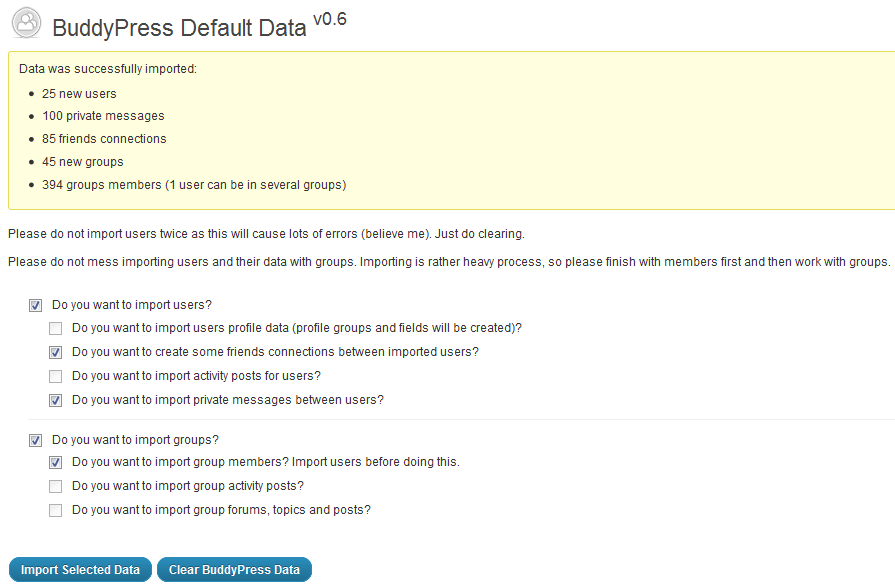
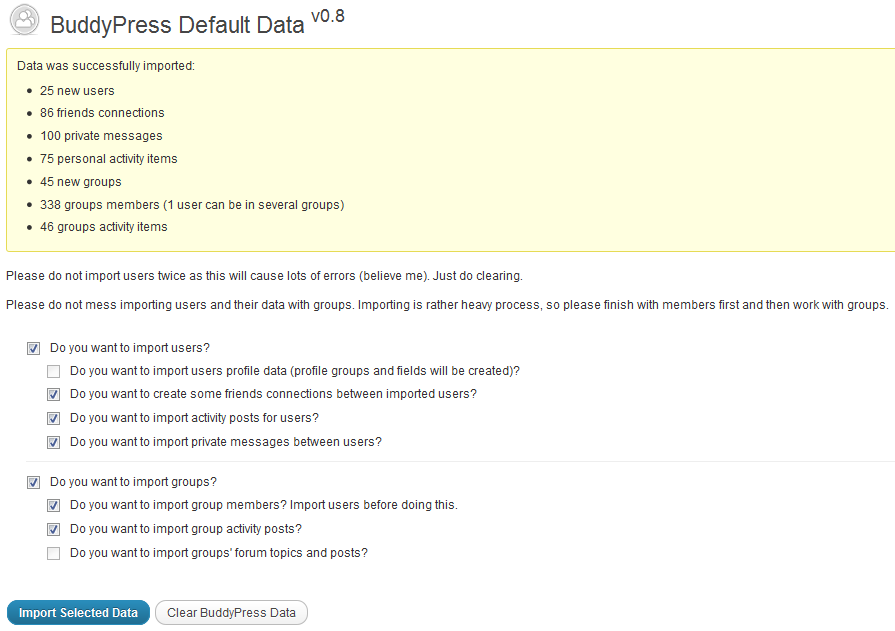
tagging 0.8
git-svn-id: https://plugins.svn.wordpress.org/bp-default-data/trunk@446362 b8457f37-d9ea-0310-8a92-e5e31aec5664

Changed region(s): [[0.0, 0.0, 1.0, 0.7077], [0.0302, 0.7385, 0.5128, 0.8923], [0.0, 0.9231, 0.362, 1.0]]

diff --git a/bp-default-data.php b/bp-default-data.php
@@ -4,14 +4,14 @@
  * Plugin URI:  http://ovirium.com
  * Description: Plugin will create lots of users, groups, topics, activity items - useful for testing purpose.
  * Author:      slaFFik
- * Version:     0.6
+ * Version:     0.8
  * Author URI:  http://cosydale.com
  */
 
 // Exit if accessed directly
 if ( !defined( 'ABSPATH' ) ) exit;
 
-define('BPDD_VERSION', '0.6');
+define('BPDD_VERSION', '0.8');
 
 add_action('bp_init', 'bpdd_init');
 function bpdd_init(){
@@ -60,39 +60,39 @@ function bpdd_admin_page_content(){
             // Import users
             if(isset($_POST['bpdd']['import-users'])){
                 $users = bpdd_import_users();
-                $imported['users'] = count($users) . ' new users';
+                $imported['users'] = sprintf(__('%d new users','bpdd'), count($users));
+                if(isset($_POST['bpdd']['import-friends'])){
+                    $friends = bpdd_import_users_friends();
+                    $imported['friends'] = sprintf(__('%d friends connections','bpdd'), $friends);
+                }
                 if(isset($_POST['bpdd']['import-profile'])){
                     $profile = bpdd_import_users_profile();
-                    $imported['profile'] = count($profile) .' profile entries';
+                    $imported['profile'] = sprintf(__('%d profile entries','bpdd'), $profile);
                 }
                 if(isset($_POST['bpdd']['import-messages'])){
                     $messages = bpdd_import_users_messages();
-                    $imported['messages'] = count($messages) .' private messages';
+                    $imported['messages'] = sprintf(__('%d private messages', 'bpdd'), count($messages));
                 }
                 if(isset($_POST['bpdd']['import-activity'])){
                     $activity = bpdd_import_users_activity();
-                    $imported['activity'] = count($activity) .' activity items';
-                }
-                if(isset($_POST['bpdd']['import-friends'])){
-                    $friends = bpdd_import_users_friends();
-                    $imported['friends'] = $friends .' friends connections';
+                    $imported['activity'] = sprintf(__('%d personal activity items','bpdd'), $activity);
                 }
             }
             // Import groups
             if(isset($_POST['bpdd']['import-groups'])){
                 $groups = bpdd_import_groups($users);
-                $imported['groups'] = count($groups) .' new groups';
+                $imported['groups'] = sprintf(__('%d new groups','bpdd'), count($groups));
                 if(isset($_POST['bpdd']['import-g-members'])){
                     $g_members = bpdd_import_groups_members($groups);
-                    $imported['g_members'] = count($g_members) .' groups members (1 user can be in several groups)';
+                    $imported['g_members'] = sprintf(__('%d groups members (1 user can be in several groups)', 'bpdd'), count($g_members));
                 }
                 if(isset($_POST['bpdd']['import-forums'])){
                     $forums = bpdd_import_groups_forums($groups);
-                    $imported['forums'] = count($forums) .' groups forum topics';
+                    $imported['forums'] = sprintf(__('%d groups forum topics', 'bpdd'), count($forums));
                 }
                 if(isset($_POST['bpdd']['import-g-activity'])){
-                    $g_activity = bpdd_import_groups_activity($groups);
-                    $imported['g_activity'] = count($g_activity) .' groups activity items';
+                    $g_activity = bpdd_import_groups_activity();
+                    $imported['g_activity'] = sprintf(__('%d groups activity items', 'bpdd'), $g_activity);
                 }
             }
 
@@ -133,7 +133,7 @@ function bpdd_admin_page_content(){
                 });
                 
                 jQuery("input#bpdd-admin-clear").click( function() {
-                    if ( confirm( 'Are you sure you want to delete all users (except one with ID=1), groups, messages, activities, forum topics etc?' ) ) 
+                    if ( confirm( '<?php _e('Are you sure you want to delete all users (except one with ID=1), groups, messages, activities, forum topics etc?','bpdd') ?>' ) ) 
                         return true; 
                     else
                         return false; 
@@ -172,7 +172,7 @@ function bpdd_admin_page_content(){
                         <?php if ( bp_is_active( 'activity' ) ) : ?>
                             <li>
                                 <label for="import-activity">
-                                    <input type="checkbox" disabled name="bpdd[import-activity]" id="import-activity" value="1" /> &nbsp;
+                                    <input type="checkbox" name="bpdd[import-activity]" id="import-activity" value="1" /> &nbsp;
                                     <?php _e( 'Do you want to import activity posts for users?', 'bpdd' ) ?>
                                 </label>
                             </li>
@@ -201,23 +201,23 @@ function bpdd_admin_page_content(){
                                 <?php _e( 'Do you want to import group members? Import users before doing this.', 'bpdd' ) ?>
                             </label>
                         </li>
-                        <?php if ( bp_is_active( 'groups' ) && bp_is_active( 'activity' ) ) : ?>
+                        <?php if ( bp_is_active( 'activity' ) ) : ?>
                             <li>
                                 <label for="import-g-activity">
-                                    <input type="checkbox" disabled name="bpdd[import-g-activity]" id="import-g-activity" value="1" /> &nbsp;
+                                    <input type="checkbox" name="bpdd[import-g-activity]" id="import-g-activity" value="1" /> &nbsp;
                                     <?php _e( 'Do you want to import group activity posts?', 'bpdd' ) ?>
                                 </label>
                             </li>
                         <?php endif; ?>
-                        <?php if ( bp_is_active( 'groups' ) && bp_is_active( 'forums' ) && bp_forums_is_installed_correctly() ) : ?>
+                        <?php if ( bp_is_active( 'forums' ) && bp_forums_is_installed_correctly() ) : ?>
                             <li>
                                 <label for="import-forums">
                                     <input type="checkbox" disabled name="bpdd[import-forums]" id="import-forums" value="1" /> &nbsp;
-                                    <?php _e( 'Do you want to import group forums, topics and posts?', 'bpdd' ) ?>
+                                    <?php _e( 'Do you want to import groups\' forum topics and posts?', 'bpdd' ) ?>
                                 </label>
                             </li>
                         <?php else: ?>
-                            <li>You can't import anything forums-related, because Forum Component is not installed correctly. Please check your settings.</li>
+                            <li><?php _e('You can\'t import anything forums-related, because Forum Component is not installed correctly. Please recheck your settings.','bpdd'); ?></li>
                         <?php endif; ?>
                     </ul>
                 </li>
@@ -226,12 +226,12 @@ function bpdd_admin_page_content(){
 
             <p class="submit">
                 <input class="button-primary" type="submit" name="bpdd-admin-submit" id="bpdd-admin-submit" value="<?php _e( 'Import Selected Data', 'bpdd' ); ?>" />
-                <input class="button-primary" type="submit" name="bpdd-admin-clear" id="bpdd-admin-clear" value="<?php _e( 'Clear BuddyPress Data', 'bpdd' ); ?>" />
+                <input class="button" type="submit" name="bpdd-admin-clear" id="bpdd-admin-clear" value="<?php _e( 'Clear BuddyPress Data', 'bpdd' ); ?>" />
             </p>
 
-            <p><?php _e('Many thanks to <a href="http://imdb.com" target="_blank">IMDB.com</a> for movies titles (groups names), <a href="http://en.wikipedia.org" target="_blank">Wikipedia.org</a> (users names) and <a href="http://en.wikipedia.org/wiki/Lorem_ipsum" target="_blank">Lorem Ipsum</a> (activity and forum posts).', 'bpdd') ?></p>
             <p><?php _e('All users have the same password: <code>1234567890</code>', 'bpdd') ?></p>
             <p><?php _e('Friends connections don\'t produce notifications, while messages importing do.', 'bpdd') ?></p>
+            <p><?php _e('Many thanks to <a href="http://imdb.com" target="_blank">IMDB.com</a> for movies titles (groups names), <a href="http://en.wikipedia.org" target="_blank">Wikipedia.org</a> (users names), <a href="http://en.wikipedia.org/wiki/Lorem_ipsum" target="_blank">Lorem Ipsum</a> (messages and forum posts), <a href="http://www.cs.virginia.edu/~robins/quotes.html">Dr. Gabriel Robins</a> (for a list of quotes collected by him), <a href="http://www.youtube.com/">Youtube</a> and <a href="http://vimeo.com/">Vimeo</a> (for videos).', 'bpdd') ?></p>
             <?php wp_nonce_field( 'bpdd-admin' );   ?>
 
         </form>
@@ -317,7 +317,19 @@ function bpdd_import_users_messages(){
 }
 
 function bpdd_import_users_activity(){
-    return true;
+    $users = bpdd_get_random_users_ids(0);
+    
+    require (dirname(__FILE__) . '/data/activity.php');
+    
+    for($i = 0, $count = 0; $i < 75; $i++){
+        $user = $users[array_rand($users)];
+        $content = $activity[array_rand($activity)];
+        if(bp_activity_post_update(array('user_id' => $user,'content' => $content))){
+            $count++;
+        }
+    }
+    
+    return $count;
 }
 
 function bpdd_import_users_friends(){
@@ -370,7 +382,22 @@ function bpdd_import_groups($users = false){
 }
 
 function bpdd_import_groups_activity(){
-    return true;
+    $users = bpdd_get_random_users_ids(0);
+    $groups = bpdd_get_random_groups_ids(0);
+    
+    require (dirname(__FILE__) . '/data/activity.php');
+    
+    for($i = 0, $count = 0; $i < 150; $i++){
+        $user_id = $users[array_rand($users)];
+        $group_id = $groups[array_rand($groups)];
+        $content = $activity[array_rand($activity)];
+        if ( !groups_is_user_member( $user_id, $group_id ) )
+            continue;
+        if(groups_post_update(array('user_id' => $user_id,'group_id' => $group_id,'content' => $content)))
+            $count++;
+    }
+    
+    return $count;
 }
 
 function bpdd_import_groups_members($groups = false){
@@ -432,6 +459,8 @@ function bpdd_import_groups_forums(){
  */
 function bpdd_clear_db(){
     global $wpdb;
+    $sqls[] = "TRUNCATE TABLE {$wpdb->prefix}bp_activity;";
+    $sqls[] = "TRUNCATE TABLE {$wpdb->prefix}bp_activity_meta;";
     $sqls[] = "TRUNCATE TABLE {$wpdb->prefix}bp_groups;";
     $sqls[] = "TRUNCATE TABLE {$wpdb->prefix}bp_groups_members;";
     $sqls[] = "TRUNCATE TABLE {$wpdb->prefix}bp_groups_groupmeta;";
@@ -456,8 +485,10 @@ function bpdd_get_random_groups_ids($count = 1, $output = 'array'){
     $groups = array();
     $data = array();
     $limit = '';
+    
     if($count > 0)
         $limit = ' LIMIT ' . $count;
+    
     $sql = 'SELECT id FROM ' . $wpdb->prefix . 'bp_groups ORDER BY rand()' . $limit;
     $groups = $wpdb->get_results($wpdb->prepare($sql));
 
@@ -476,8 +507,12 @@ function bpdd_get_random_groups_ids($count = 1, $output = 'array'){
 function bpdd_get_random_users_ids($count = 1, $output = 'array'){
     global $wpdb;
     $users = array();
+    $limit = '';
 
-    $sql = 'SELECT ID FROM ' . $wpdb->prefix . 'users ORDER BY rand() LIMIT ' . $count;
+    if($count > 0)
+        $limit = ' LIMIT ' . $count;
+
+    $sql = 'SELECT ID FROM ' . $wpdb->prefix . 'users ORDER BY rand()' . $limit;
     $users = $wpdb->get_results($wpdb->prepare($sql));
 
     // reformat the array

diff --git a/data/activity.php b/data/activity.php
@@ -1,0 +1,122 @@
+<?php
+$activity = array(
+    'Moral indignation is jealousy with a halo. (H. G. Wells)',
+    'Glory is fleeting, but obscurity is forever.(Napoleon Bonaparte)',
+    'The fundamental cause of trouble in the world is that the stupid are cocksure while the intelligent are full of doubt. (Bertrand Russell)',
+    'Victory goes to the player who makes the next-to-last mistake. (Chessmaster Savielly Grigorievitch Tartakower)',
+    'His ignorance is encyclopedic (Abba Eban)',
+    'If a man does his best, what else is there? (General George S. Patton)',
+    'Political correctness is tyranny with manners. (Charlton Heston)',
+    'You can avoid reality, but you cannot avoid the consequences of avoiding reality. (Ayn Rand)',
+    'When one person suffers from a delusion it is called insanity; when many people suffer from a delusion it is called religion. (Robert Pirsig)',
+    'Sex and religion are closer to each other than either might prefer. (Saint Thomas Moore)',
+    'I can write better than anybody who can write faster, and I can write faster than anybody who can write better. (A. J. Liebling)',
+    'People demand freedom of speech to make up for the freedom of thought which they avoid. (Soren Aabye Kierkegaard)',
+    'Give me chastity and continence, but not yet. (Saint Augustine)',
+    'Not everything that can be counted counts, and not everything that counts can be counted. (Albert Einstein)',
+    'Only two things are infinite, the universe and human stupidity, and I\'m not sure about the former. (Albert Einstein)',
+    'A lie gets halfway around the world before the truth has a chance to get its pants on. (Sir Winston Churchill)',
+    'You may not be interested in war, but war is interested in you. (Leon Trotsky)',
+    'I do not feel obliged to believe that the same God who has endowed us with sense, reason, and intellect has intended us to forgo their use. (Galileo Galilei)',
+    'We are all atheists about most of the gods humanity has ever believed in.Some of us just go one god further. (Richard Dawkins)',
+    'The artist is nothing without the gift, but the gift is nothing without work. (Emile Zola)',
+    'The full use of your powers along lines of excellence. (definition of happiness by John F. Kennedy)',
+    'I\'m living so far beyond my income that we may almost be said to be living apart. (E. E. Cummings)',
+    'Give me a museum and I\'ll fill it. (Pablo Picasso)',
+    'In theory, there is no difference between theory and practice. But in practice, there is. (Yogi Berra)',
+    'I find that the harder I work, the more luck I seem to have. (Thomas Jefferson)',
+    'Each problem that I solved became a rule which served afterwards to solve other problems. (Rene Descartes, Discours de la Methode)',
+    'In the End, we will remember not the words of our enemies, but the silence of our friends. (Martin Luther King Jr.)',
+    'Whether you think that you can, or that you can\'t, you are usually right. (Henry Ford)',
+    'Do, or do not.There is no \'try\'. (Yoda)',
+    'The only way to get rid of a temptation is to yield to it. (Oscar Wilde)',
+    'Don\'t stay in bed, unless you can make money in bed. (George Burns)',
+    'I don\'t know why we are here, but I\'m pretty sure that it is not in order to enjoy ourselves. (Ludwig Wittgenstein)',
+    'There are no facts, only interpretations. (Friedrich Nietzsche)',
+    'Nothing in the world is more dangerous than sincere ignorance and conscientious stupidity. (Martin Luther King Jr.)',
+    'The use of COBOL cripples the mind; its teaching should, therefore, be regarded as a criminal offense. (Edsgar Dijkstra)',
+    'C makes it easy to shoot yourself in the foot; C++ makes it harder, but when you do, it blows away your whole leg. (Bjarne Stroustrup)',
+    'A mathematician is a device for turning coffee into theorems. (Paul Erdos)',
+    'Problems worthy of attack prove their worth by fighting back. (Paul Erdos)',
+    'Try to learn something about everything and everything about something. (Thomas Henry Huxley)',
+    'Dancing is silent poetry. (Simonides)',
+    'The only difference between me and a madman is that I\'m not mad. (Salvador Dali)',
+    'If you can\'t get rid of the skeleton in your closet, you\'d best teach it to dance. (George Bernard Shaw)',
+    'But at my back I always hear Time\'s winged chariot hurrying near. (Andrew Marvell)',
+    'Good people do not need laws to tell them to act responsibly, while bad people will find a way around the laws. (Plato)',
+    'The power of accurate observation is frequently called cynicism by those who don\'t have it. (George Bernard Shaw)',
+    'Whenever I climb I am followed by a dog called \'Ego\'. (Friedrich Nietzsche)',
+    'Everybody pities the weak; jealousy you have to earn. (Arnold Schwarzenegger)',
+    'Against stupidity, the gods themselves contend in vain. (Friedrich von Schiller)',
+    'We have art to save ourselves from the truth. (Friedrich Nietzsche)',
+    'Never interrupt your enemy when he is making a mistake. (Napoleon Bonaparte)',
+    'I think \'Hail to the Chief\' has a nice ring to it. (John F. Kennedywhen asked what is his favorite song)',
+    'I have nothing to declare except my genius. (Oscar Wildeupon arriving at U.S. customs 1882)',
+    'Human history becomes more and more a race between education and catastrophe. (H. G. Wells)',
+    'Talent does what it can; genius does what it must. (Edward George Bulwer-Lytton)',
+    'The difference between \'involvement\' and \'commitment\' is like an eggs-and-ham breakfast: the chicken was \'involved\' - the pig was \'committed\'. (unknown)',
+    'Women might be able to fake orgasms. But men can fake a whole relationship. (Sharon Stone)',
+    'If you are going through hell, keep going. (Sir Winston Churchill)',
+    'He who has a \'why\' to live, can bear with almost any \'how\'. (Friedrich Nietzsche)',
+    'Many wealthy people are little more than janitors of their possessions. (Frank Lloyd Wright)',
+    'I\'m all in favor of keeping dangerous weapons out of the hands of fools.Let\'s start with typewriters. (Frank Lloyd Wright)',
+    'Some cause happiness wherever they go; others, whenever they go. (Oscar Wilde)',
+    'God is a comedian playing to an audience too afraid to laugh. (Voltaire)',
+    'He is one of those people who would be enormously improved by death. (H. H. Munro (Saki))',
+    'I am ready to meet my Maker. Whether my Maker is prepared for the great ordeal of meeting me is another matter. (Sir Winston Churchill)',
+    'I shall not waste my days in trying to prolong them. (Ian L. Fleming)',
+    'If you can count your money, you don\'t have a billion dollars. (J. Paul Getty)',
+    'Facts are the enemy of truth. (Don Quixote - Man of La Mancha)',
+    'When you do the common things in life in an uncommon way, you will command the attention of the world. (George Washington Carver)',
+    'How wrong it is for a woman to expect the man to build the world she wants, rather than to create it herself. (Anais Nin)',
+    'I have not failed. I\'ve just found 10,000 ways that won\'t work. (Thomas Alva Edison)',
+    'I begin by taking.I shall find scholars later to demonstrate my perfect right. (Frederick (II) the Great)',
+    'Maybe this world is another planet\'s Hell. (Aldous Huxley)',
+    'Blessed is the man, who having nothing to say, abstains from giving wordy evidence of the fact. (George Eliot)',
+    'Once you eliminate the impossible, whatever remains, no matter how improbable, must be the truth. (Sherlock Holmes (by Sir Arthur Conan Doyle, 1859-1930))',
+    'Black holes are where God divided by zero. (Steven Wright)',
+    'I\'ve had a wonderful time, but this wasn\'t it. (Groucho Marx)',
+    'It\'s kind of fun to do the impossible. (Walt Disney)',
+    'We didn\'t lose the game; we just ran out of time. (Vince Lombardi)',
+    'The optimist proclaims that we live in the best of all possible worlds, and the pessimist fears this is true. (James Branch Cabell)',
+    'A friendship founded on business is better than a business founded on friendship. (John D. Rockefeller)',
+    'All are lunatics, but he who can analyze his delusion is called a philosopher. (Ambrose Bierce)',
+    'You can only find truth with logic if you have already found truth without it. (Gilbert Keith Chesterton)',
+    'An inconvenience is only an adventure wrongly considered; an adventure is an inconvenience rightly considered. (Gilbert Keith Chesterton)',
+    'I have come to believe that the whole world is an enigma, a harmless enigma that is made terrible by our own mad attempt to interpret it as though it had an underlying truth. (Umberto Eco)',
+    'Be nice to people on your way up because you meet them on your way down. (Jimmy Durante)',
+    'The true measure of a man is how he treats someone who can do him absolutely no good. (Samuel Johnson)',
+    'A people that values its privileges above its principles soon loses both. (Dwight D. Eisenhower , Inaugural Address, January 20, 1953)',
+    'The significant problems we face cannot be solved at the same level of thinking we were at when we created them. (Albert Einstein)',
+    'Basically, I no longer work for anything but the sensation I have while working. (Albert Giacometti (sculptor))',
+    'There\'s a limit to how many times you can read how great you are and what an inspiration you are, but I\'m not there yet. (Randy Pausch)',
+    'It is far better to grasp the Universe as it really is than to persist in delusion, however satisfying and reassuring. (Carl Sagan)',
+    'All truth passes through three stages. First, it is ridiculed.Second, it is violently opposed. Third, it is accepted as beingself-evident. (Arthur Schopenhauer)',
+    'Many a man\'s reputation would not know his character if they met onthe street. (Elbert Hubbard)',
+    'There is more stupidity than hydrogen in the universe, and it has a longer shelf life. (Frank Zappa)',
+    'Perfection is achieved, not when there is nothing more to add, but when there is nothing left to take away. (Antoine de Saint Exupery)',
+    'Life is pleasant.Death is peaceful.It\'s the transition that\'s troublesome. (Isaac Asimov)',
+    'If you want to make an apple pie from scratch, you must first create the universe. (Carl Sagan)',
+    'It is much more comfortable to be mad and know it, than to be sane and have one\'s doubts. (G. B. Burgin)',
+    'Once is happenstance. Twice is coincidence. Three times is enemy action. (Auric Goldfinger, in Goldfinger by Ian L. Fleming)',
+    'To love oneself is the beginning of a lifelong romance (Oscar Wilde)',
+    'http://vimeo.com/24724866',
+    'http://vimeo.com/24723424',
+    'http://vimeo.com/22694972',
+    'http://vimeo.com/19658300',
+    'http://vimeo.com/6282052',
+    'http://www.youtube.com/watch?v=jiM6XIoW6ZY&feature=feedfbc',
+    'http://www.youtube.com/watch?v=kh29_SERH0Y',
+    'http://www.youtube.com/watch?v=t4CUNVYxxZM',
+    'http://www.youtube.com/watch?v=51iquRYKPbs',
+    'http://www.youtube.com/watch?v=1rjoQ-knMGU',
+    'http://www.youtube.com/watch?v=yoy4_h7Pb3M',
+    'http://www.youtube.com/watch?v=wGwyf1t0OCU',
+    'http://www.youtube.com/watch?v=WhBoR_tgXCI',
+    'http://www.youtube.com/watch?v=-58oLEKnpYE',
+    'http://www.youtube.com/watch?v=Ac0miuyXV4Q',
+    'WordPress is web software you can use to create a beautiful website or blog. We like to say that WordPress is both free and priceless at the same time.',
+    'BuddyPress is completely free and open source. Unlike hosted services, BuddyPress allows you to stay in control of your site and create a totally customized, unique experience.',
+    'http://vimeo.com/28926706'
+);
+?>
